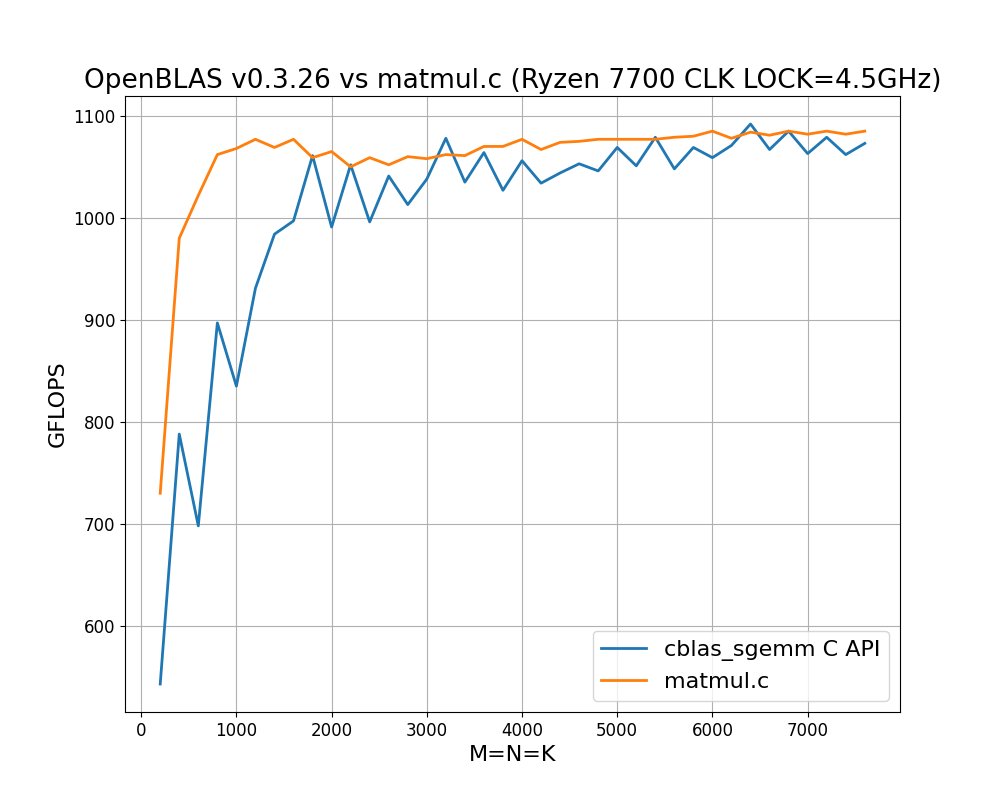
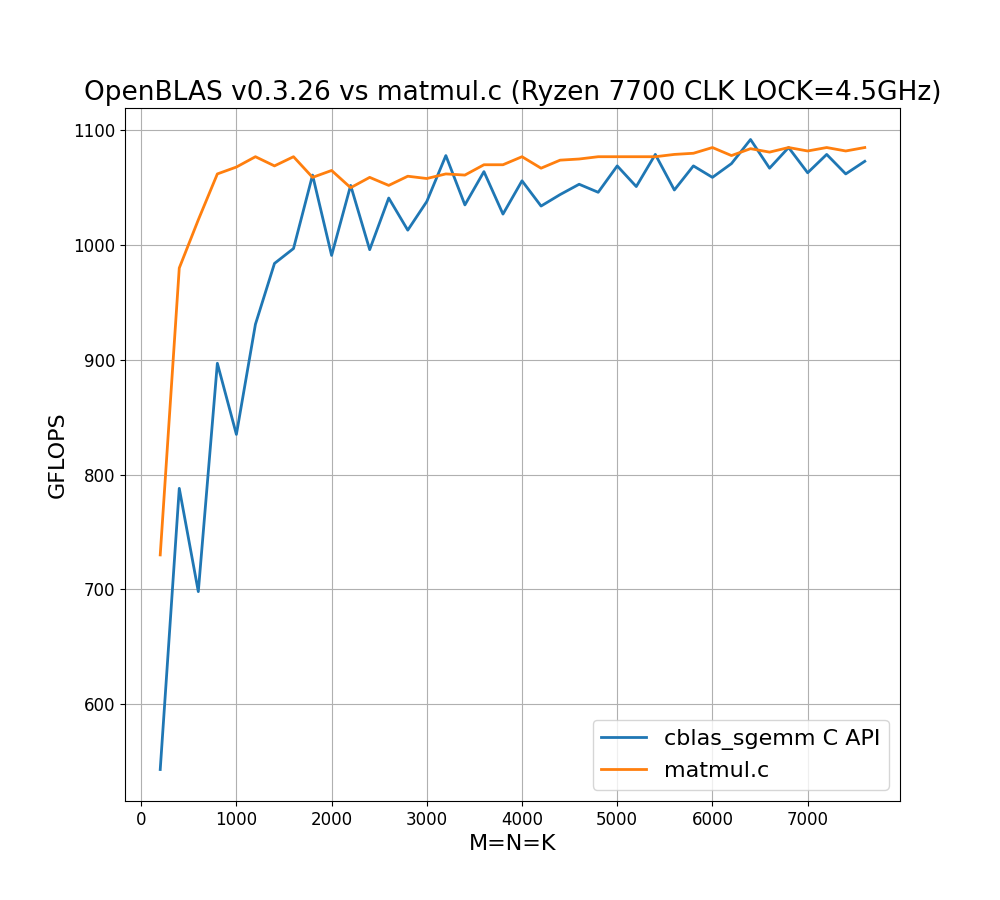
update

diff --git a/plot_benchmark.py b/plot_benchmark.py
@@ -10,7 +10,7 @@ if __name__ == "__main__":
     ), "No benchmark data was found, first run benchmark!"
 
     plt.rc("font", size=12)
-    fig, ax = plt.subplots(figsize=(10, 8))
+    fig, ax = plt.subplots(figsize=(10, 9))
 
     if "benchmark_openblas.txt" in benchmark_data:
         mat_sizes, min_gflops_c, max_gflops_c, avg_gflops_c = np.loadtxt("benchmark_openblas.txt").T
